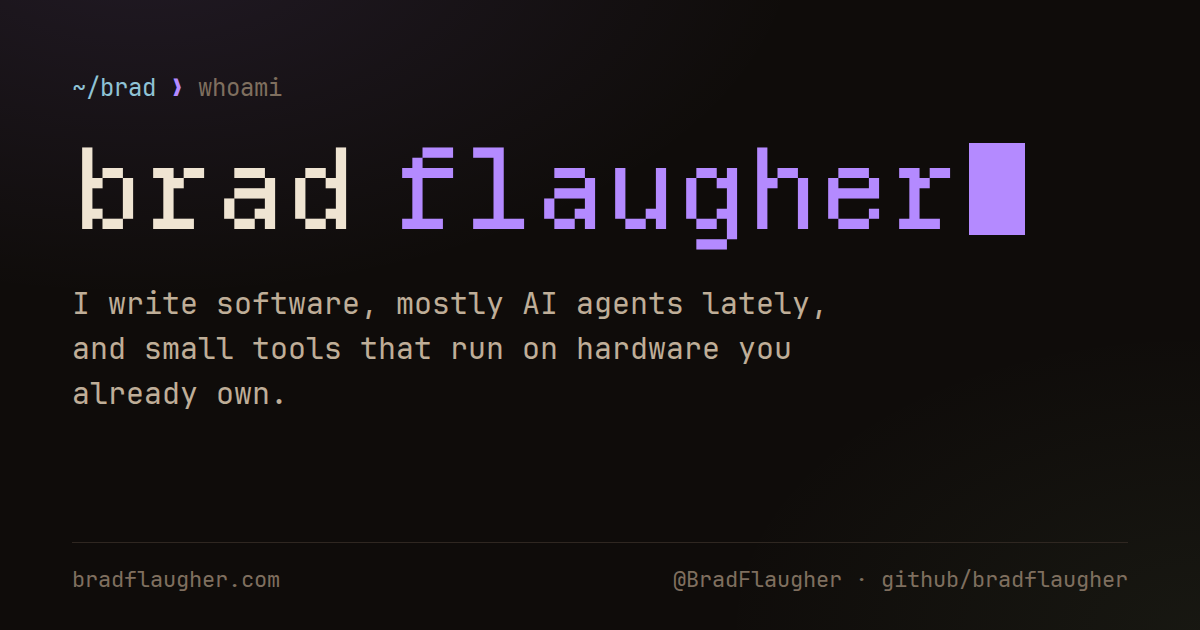
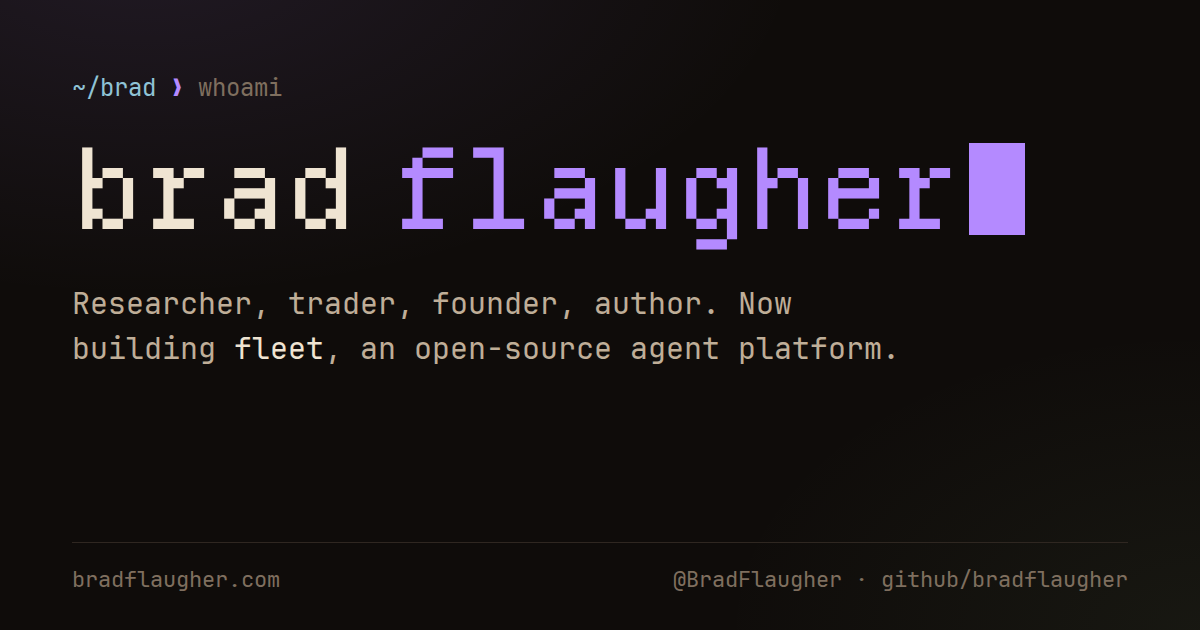
Replace the one-liner with a five-sentence, link-dense bio
Tells the story from the old resume: research, trading, startups,
Inoxoft and Audigent, the book and schools, and now fleet plus side
projects. Links get a dotted underline so they read as links. Meta
descriptions and og.png updated; AGENTS.md allows the longer bio.

Claude-Session: https://claude.ai/code/session_01KJWLCGuvcMtFCsMvgZXvd4

Changed region(s): [[0.0617, 0.4524, 0.74, 0.573], [0.0617, 0.6032, 0.2158, 0.6635]]

diff --git a/index.html b/index.html
@@ -4,7 +4,7 @@
   <meta charset="UTF-8">
   <title>Brad Flaugher</title>
   <meta name="viewport" content="width=device-width, initial-scale=1.0, viewport-fit=cover">
-  <meta name="description" content="Brad Flaugher. I write software, mostly AI agents lately, and small tools that run on hardware you already own.">
+  <meta name="description" content="Brad Flaugher. Researcher, trader, founder, author. Now building fleet, an open-source agent platform.">
   <meta name="theme-color" content="#0f0c0a">
   <meta name="color-scheme" content="dark">
   <link rel="canonical" href="https://bradflaugher.com/">
@@ -26,12 +26,12 @@
   <meta property="og:type" content="website">
   <meta property="og:url" content="https://bradflaugher.com/">
   <meta property="og:title" content="Brad Flaugher">
-  <meta property="og:description" content="Brad Flaugher. I write software, mostly AI agents lately, and small tools that run on hardware you already own.">
+  <meta property="og:description" content="Brad Flaugher. Researcher, trader, founder, author. Now building fleet, an open-source agent platform.">
   <meta property="og:image" content="https://bradflaugher.com/og.png">
   <meta property="og:image:type" content="image/png">
   <meta property="og:image:width" content="1200">
   <meta property="og:image:height" content="630">
-  <meta property="og:image:alt" content="Terminal-style card: brad flaugher, with links to X and GitHub.">
+  <meta property="og:image:alt" content="Terminal-style card: brad flaugher. Researcher, trader, founder, author. Now building fleet.">
 
   <!-- Twitter -->
   <meta name="twitter:card" content="summary_large_image">
@@ -39,9 +39,9 @@
   <meta name="twitter:creator" content="@BradFlaugher">
   <meta name="twitter:url" content="https://bradflaugher.com/">
   <meta name="twitter:title" content="Brad Flaugher">
-  <meta name="twitter:description" content="Brad Flaugher. I write software, mostly AI agents lately, and small tools that run on hardware you already own.">
+  <meta name="twitter:description" content="Brad Flaugher. Researcher, trader, founder, author. Now building fleet, an open-source agent platform.">
   <meta name="twitter:image" content="https://bradflaugher.com/og.png">
-  <meta name="twitter:image:alt" content="Terminal-style card: brad flaugher, with links to X and GitHub.">
+  <meta name="twitter:image:alt" content="Terminal-style card: brad flaugher. Researcher, trader, founder, author. Now building fleet.">
 
   <style>
     @font-face {
@@ -166,7 +166,10 @@
     }
     @keyframes blink { 50% { opacity: 0; } }
 
-    .bio { color: var(--fg-dim); max-width: 52ch; margin-top: 18px; text-wrap: pretty; }
+    .bio { color: var(--fg-dim); max-width: 64ch; margin-top: 22px; text-wrap: pretty; }
+    .bio p + p { margin-top: 0.9em; }
+    .bio a { color: var(--fg); border-bottom: 1px dotted var(--line-hi); transition: color .15s, border-color .15s; }
+    .bio a:hover { color: var(--accent); border-bottom-color: var(--accent); }
 
     .socials {
       list-style: none;
@@ -206,7 +209,7 @@
     @media (prefers-reduced-motion: reduce) {
       html { scroll-behavior: auto; }
       .caret { animation: none; }
-      .chip { transition: none; }
+      .chip, .bio a { transition: none; }
     }
 
   </style>
@@ -217,7 +220,13 @@
     <header class="hero">
       <p class="prompt" aria-hidden="true"><span class="path">~/brad</span> <span class="sym">❯</span> <span>whoami</span></p>
       <h1 class="name"><span>brad</span><span class="last">flaugher<span class="caret" aria-hidden="true"></span></span></h1>
-      <p class="bio">I write software, mostly AI agents lately, and small tools that run on hardware you already own.</p>
+      <div class="bio">
+        <p>I started in research, publishing <a href="https://link.springer.com/article/10.1007/s11571-008-9054-0" rel="noopener">computational neuroscience</a> out of Budapest, then took an economic history MSc at LSE and ran <a href="https://www.walleyecapital.com/" rel="noopener">$50M a day in algorithmic trades</a>.</p>
+        <p>Then startups: <a href="https://techcrunch.com/2013/12/05/offline-blends-text-audio-and-writer-empowerment-to-create-new-kind-of-ios-publication/" rel="noopener">Offline</a> hit 250K downloads in its first month and was acquihired by <a href="https://www.startribune.com/redcurrent-app-aims-to-streamline-calendars/291898351" rel="noopener">RedCurrent</a>, which raised its Series A.</p>
+        <p>I founded Bread Factory Studios, merged it into <a href="https://inoxoft.com/" rel="noopener">Inoxoft</a> and grew engineering to 240 people on four continents, while running the ML behind real-time bidding at <a href="https://www.experianplc.com/newsroom/press-releases/2024/experian-accelerates-identity-and-activation-capabilities-with-a" rel="noopener">Audigent</a>, which Experian later bought for $363M.</p>
+        <p>Along the way I wrote <a href="https://a.co/d/2BAlait" rel="noopener">AI Harmony</a>, went back to school at <a href="https://exec.mit.edu/s/blog-post/brad-flaugher-learned-to-embrace-being-a-manager-with-mit-sloan-executive-educat-MCQFLHKCXJZVAEXKGTR7PVWX4TD4" rel="noopener">MIT Sloan</a> and <a href="https://open.spotify.com/episode/0H5ZwCpTu7ddvY7PlrkHd0" rel="noopener">Wharton</a>, and endowed a <a href="https://www.kzoo.edu/news/complex-systems-studies-professor/" rel="noopener">complex systems fund</a> at Kalamazoo College with four classmates.</p>
+        <p>Now that <a href="https://www.youtube.com/watch?v=vDjW_dRyKXY" rel="noopener">hand-written code no longer pays</a>, I build what writes it: <a href="https://github.com/ElcanoTek/fleet" rel="noopener">fleet</a>, an open-source agent platform at <a href="https://www.elcanotek.com" rel="noopener">Elcano</a> where every tool call runs in a sandbox and every turn has a budget, plus side projects like <a href="https://divid3.com" rel="noopener">divid3</a>, a <a href="https://github.com/bradflaugher/infinite-best" rel="noopener">Game Boy puzzler</a> that works out its own par, and an <a href="https://github.com/bradflaugher/bf-12c" rel="noopener">HP-12C homage</a>.</p>
+      </div>
       <ul class="socials" aria-label="Elsewhere">
         <li>
           <a class="chip" href="https://x.com/BradFlaugher" rel="me noopener" aria-label="Brad Flaugher on X, @BradFlaugher">

diff --git a/AGENTS.md b/AGENTS.md
@@ -6,9 +6,10 @@ to `main` deploys.
 
 Things worth knowing before changing anything:
 
-- **`index.html`** is a name, a one-line bio, and links. Projects live
-  on GitHub (pinned repos), not here. No job titles, no company, no phone,
-  no address, no "get in touch". Copy is matter-of-fact, no jokes.
+- **`index.html`** is a name, a short bio, and links. The bio is about
+  five link-dense sentences telling the story; projects otherwise live on
+  GitHub (pinned repos). No job titles, no phone, no address, no "get in
+  touch". Copy is matter-of-fact, no jokes.
 - **Look:** dark, monospace, TUI-flavored (JetBrains Mono + Departure
   Mono, self-hosted under `fonts/`). No JavaScript. Check it on a phone.
 - **`og.png`** is generated from a throwaway HTML render; if the copy on
